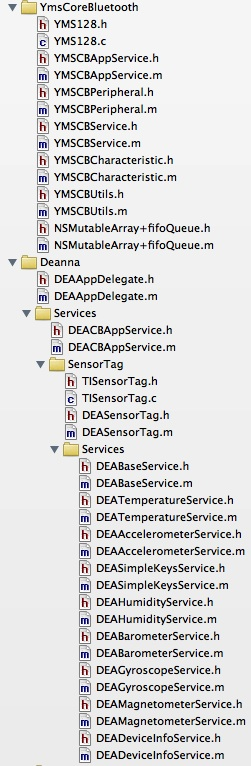
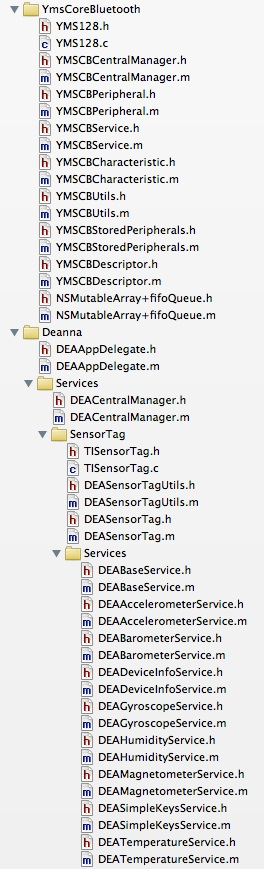
Updated tutorial to 0.93 API

diff --git a/appledoc/docs/tutorial/Tutorial.html b/appledoc/docs/tutorial/Tutorial.html
@@ -27,8 +27,6 @@
 				<div id="container">	
 					<p><link rel="stylesheet" type="text/css" href="css/book.css" /></p>
 
-<p><strong>THIS TUTORIAL IS OBSOLETE AS OF API VERSION 0.93. AN UPDATE IS ARRIVING SHORTLY.</strong></p>
-
 <h1>YmsCoreBluetooth <a href="Tutorial.html">Tutorial</a></h1>
 
 <p><strong>YmsCoreBluetooth</strong> is a framework for building Bluetooth LE capability to an iOS app. It extends the CoreBluetooth framework by implementing functionality to manage BLE peripherals, their services, and the characteristics of those services.</p>
@@ -57,42 +55,60 @@
 
 <p>With the above figure, let&rsquo;s walk through building a <em>SensorTag</em> peripheral.</p>
 
-<h2>Subclass YMSCBAppService</h2>
+<h2>Subclass <a href="../../Classes/YMSCBCentralManager.html">YMSCBCentralManager</a> to make <a href="../../Classes/DEACentralManager.html">DEACentralManager</a></h2>
 
-<p>The class DEACBAppService in <code>Deanna/Services/DEACBAppService.[hm]</code> is an application service to manage all known peripherals as defined by you the implementer. In this case we&rsquo;re only concerning ourselves with <em>SensorTag</em> peripherals.
-It is typically implemented as a singleton instance and contains the following three method implementations:</p>
+<p>The class <a href="../../Classes/DEACentralManager.html">DEACentralManager</a> in <code>Deanna/Services/</code>DEACentralManager<code>.[hm]</code> is an application service to manage all known peripherals as defined by you the implementer. In this case we&rsquo;re only concerning ourselves with <em>SensorTag</em> peripherals.
+It is typically implemented as a singleton instance and contains the following method implementations:</p>
 
 <ul>
 <li><code>sharedService</code></li>
 <li><code>startScan</code></li>
 <li><code>handleFoundPeripheral</code></li>
+<li><code>managerPoweredOnHandler</code></li>
 </ul>
 
 
-<p>The <code>sharedService</code> method is a singleton constructor for <code>DEACBAppService</code>. In this implementation, the property <code>[YMSCBAppService knownPeripheralNames]</code> is set using <code>initWithKnownPeripheralNames:queue:</code> to help identify and filter the peripherals you care to communicate with.</p>
+<p>The <code>sharedService</code> method is a singleton constructor for DEACentralManager. In this implementation, the property <a href="../../Classes/YMSCBCentralManager.html#//api/name/knownPeripheralNames">[YMSCBCentralManager knownPeripheralNames]</a> is set using [YMSCBCentralManager initWithKnownPeripheralNames:queue:userStoredPeripherals:] to help identify and filter the peripherals you care to communicate with.</p>
 
-<pre><code>+ (DEACBAppService *)sharedService {
-    if (sharedCBAppService == nil) {
+<pre><code>+ (DEACentralManager *)sharedService {
+    if (sharedCentralManager == nil) {
         NSArray *nameList = @[@"TI BLE Sensor Tag", @"SensorTag"];
-        sharedCBAppService = [[super allocWithZone:NULL] initWithKnownPeripheralNames:nameList
-                                                                                queue:nil];
+        sharedCentralManager = [[super allocWithZone:NULL] initWithKnownPeripheralNames:nameList
+                                                                                queue:nil
+                                                                 useStoredPeripherals:YES];
     }
-    return sharedCBAppService;
+    return sharedCentralManager;
 }
 </code></pre>
 
-<p>The <code>startScan</code> method lets you define how to go about scanning for peripherals. Within its implementation should be a call to <code>scanForPeripheralsWithServices:options:</code> to tell the <code>CBCentralManager</code> instance to start scanning.</p>
+<p>The <code>startScan</code> method lets you define how to go about scanning for peripherals. Within its implementation should be a call to <code>scanForPeripheralsWithServices:options:withBlock:</code> to tell the <code>CBCentralManager</code> property <code>manager</code> to start scanning.</p>
 
 <pre><code>- (void)startScan {
     NSDictionary *options = @{ CBCentralManagerScanOptionAllowDuplicatesKey: @YES };
-    [self scanForPeripheralsWithServices:nil options:options];
+
+    __weak DEACentralManager *this = self;
+    [self scanForPeripheralsWithServices:nil
+                                 options:options
+                               withBlock:^(CBPeripheral *peripheral, NSDictionary *advertisementData, NSNumber *RSSI, NSError *error) {
+                                   if (error) {
+                                       NSLog(@"Something bad happened with scanForPeripheralWithServices:options:withBlock:");
+                                       return;
+                                   }
+
+                                   NSLog(@"DISCOVERED: %@, %@, %@ db", peripheral, peripheral.name, RSSI);
+                                   [this handleFoundPeripheral:peripheral];
+                               }];
+
 }
 </code></pre>
+
+<p>Note that a weak pointer named <code>this</code> is set to <code>self</code>. This is done to handle retain issues with referencing self within an ObjectiveC block.</p>
+
+<p>The callback block is executed upon a response from a BLE peripheral that is advertising. A discovered BLE peripheral will pass a pointer to itself (<code>peripheral</code>), advertisement data (<code>advertisementData</code>), its RSSI value (<code>RSSI</code>), and in the event of a failure, an error object (<code>error</code>) to the callback block. In this implementation, the execution of the callback block will call <code>handleFoundPeripheral:</code>. Note that the statements in <code>handleFoundPeripheral:</code> could just as easily be located within the block statement.</p>
 
 <p>The <code>handleFoundPeripheral:</code> method defines what to do once you&rsquo;ve found a peripheral via scanning. In the case of a <em>SensorTag</em> it is to instantiate <a href="../../Classes/DEASensorTag.html"><code>DEASensorTag</code></a>, a subclass of <a href="../../Classes/YMSCBPeripheral.html"><code>YMSCBPeripheral</code></a>.</p>
 
 <pre><code>- (void)handleFoundPeripheral:(CBPeripheral *)peripheral {
-
     YMSCBPeripheral *yp = [self findPeripheral:peripheral];
 
     if (yp == nil) {
@@ -106,9 +122,7 @@ It is typically implemented as a singleton instance and contains the following t
                 [self.ymsPeripherals addObject:sensorTag];
                 isUnknownPeripheral = NO;
                 break;
-
             }
-
         }
 
         if (isUnknownPeripheral) {
@@ -117,43 +131,67 @@ It is typically implemented as a singleton instance and contains the following t
             [self.ymsPeripherals addObject:yp];
         }
     }
-
 }
 </code></pre>
 
-<p>When a BLE peripheral is discovered it can be connected to. The method <code>[YMSCBAppService connectPeripheral:]</code> will request this connection and the response is handled by <code>[YMSCBAppService centralManager:didConnectPeripheral:]</code>. In this last method, the call to discover the BLE services and subquently each service&rsquo;s characteristics is called.</p>
+<p>An alternate implementation of <code>startScan</code> without using a block callback is to use <code>scanForPeripheralsWithServices:options:</code>. In this case, you then <em>must</em> implement <code>handleFoundPeripheral:</code> to handle the discovered peripheral.</p>
 
-<h2>Subclass <a href="../../Classes/YMSCBPeripheral.html">YMSCBPeripheral</a></h2>
-
-<p>The class implementation of <a href="../../Classes/DEASensorTag.html"><code>DEASensorTag</code></a> in <code>Deanna/Services/SensorTag/</code>DEASensorTag<code>.[hm]</code> is where the top-level behavior of the <em>SensorTag</em> peripheral is captured. Two methods are implemented:</p>
+<p>A common task is to define program behavior upon a change in the state of <code>CBCentralManager</code>. This is accomplished by implementing the methods which are named after their respective states:</p>
 
 <ul>
-<li><code>initWithPeripheral:baseHi:baseLo:updateRSSI:</code> &ndash; the constructor for <a href="../../Classes/DEASensorTag.html">DEASensorTag</a></li>
-<li><code>peripheral:didDiscoverCharacteristicsForService:error:</code> &ndash; CBPeriperhalDelegate method to handle what to do when BLE characteristics of the BLE services are discovered for a <em>SensorTag</em>.</li>
+<li><code>managerPoweredOnHandler</code></li>
+<li><code>managerUnknownHandler</code></li>
+<li><code>managerPoweredOffHandler</code></li>
+<li><code>managerResettingHandler</code></li>
+<li><code>managerUnauthorizedHandler</code></li>
+<li><code>managerUnsupportedHandler</code></li>
 </ul>
 
 
-<h2>Constructing <a href="../../Classes/DEASensorTag.html">DEASensorTag</a></h2>
+<p>For our purpose, we are interested on retrivieving previously discovered peripherals whose UUIDs have been persisted from a previous run of the app upon <code>CBCentralManager</code> being powered on:</p>
 
-<p>The class constructor for <a href="../../Classes/DEASensorTag.html"><code>DEASensorTag</code></a> is responsible for instantiating subclasses of <a href="../../Classes/YMSCBService.html"><code>YMSCBService</code></a> to capture the behavior of the different BLE services offered by the <em>SensorTag</em>. The source for this constructor, <code>initWithPeripheral:baseHi:baseLo:updateRSSI:</code> is shown below:</p>
+<pre><code>- (void)managerPoweredOnHandler {
+    if (self.useStoredPeripherals) {
+        NSArray *peripheralUUIDs = [YMSCBStoredPeripherals genPeripheralUUIDs];
+        __weak DEACentralManager *this = self;
+        [self retrievePeripherals:peripheralUUIDs
+                        withBlock:^(CBPeripheral *peripheral) {
+                            [this handleFoundPeripheral:peripheral];
+                        }];
+    }
+}
+</code></pre>
+
+<h2>Subclass <a href="../../Classes/YMSCBPeripheral.html">YMSCBPeripheral</a> to make <a href="../../Classes/DEASensorTag.html">DEASensorTag</a></h2>
+
+<p>The class implementation of <code>DEASensorTag</code> in <code>Deanna/Services/SensorTag/DEASensorTag.[hm]</code> is where the top-level behavior of the <em>SensorTag</em> peripheral is captured. Two methods are implemented:</p>
+
+<ul>
+<li><code>initWithPeripheral:central:baseHi:baseLo:updateRSSI:</code> &ndash; the constructor for <a href="../../Classes/DEASensorTag.html">DEASensorTag</a></li>
+<li><code>connect</code> &ndash; the method to initiate a connection request for the peripheral.</li>
+</ul>
+
+
+<p>The class constructor for <code>DEASensorTag</code> is responsible for instantiating subclasses of <code>YMSCBService</code> to capture the behavior of the different BLE services offered by the <em>SensorTag</em>. The source for this constructor, <code>initWithPeripheral:central:baseHi:baseLo:updateRSSI:</code> is shown below:</p>
 
 <pre><code>- (id)initWithPeripheral:(CBPeripheral *)peripheral
+                 central:(YMSCBCentralManager *)owner
                   baseHi:(int64_t)hi
                   baseLo:(int64_t)lo
               updateRSSI:(BOOL)update {
 
-    self = [super initWithPeripheral:peripheral baseHi:hi baseLo:lo updateRSSI:update];
+
+    self = [super initWithPeripheral:peripheral central:owner baseHi:hi baseLo:lo updateRSSI:update];
 
     if (self) {
-
-        DEATemperatureService *ts = [[DEATemperatureService alloc] initWithName:@"temperature" baseHi:hi baseLo:lo];
-        DEAAccelerometerService *as = [[DEAAccelerometerService alloc] initWithName:@"accelerometer" baseHi:hi baseLo:lo];
-        DEASimpleKeysService *sks = [[DEASimpleKeysService alloc] initWithName:@"simplekeys" baseHi:hi baseLo:lo];
-        DEAHumidityService *hs = [[DEAHumidityService alloc] initWithName:@"humidity" baseHi:hi baseLo:lo];
-        DEABarometerService *bs = [[DEABarometerService alloc] initWithName:@"barometer" baseHi:hi baseLo:lo];
-        DEAGyroscopeService *gs = [[DEAGyroscopeService alloc] initWithName:@"gyroscope" baseHi:hi baseLo:lo];
-        DEAMagnetometerService *ms = [[DEAMagnetometerService alloc] initWithName:@"magnetometer" baseHi:hi baseLo:lo];
-        DEADeviceInfoService *ds = [[DEADeviceInfoService alloc] initWithName:@"devinfo" baseHi:hi baseLo:lo];
+        DEATemperatureService *ts = [[DEATemperatureService alloc] initWithName:@"temperature" parent:self baseHi:hi  baseLo:lo];
+        DEAAccelerometerService *as = [[DEAAccelerometerService alloc] initWithName:@"accelerometer" parent:self    baseHi:hi baseLo:lo];
+        DEASimpleKeysService *sks = [[DEASimpleKeysService alloc] initWithName:@"simplekeys" parent:self baseHi:hi     baseLo:lo];
+        DEAHumidityService *hs = [[DEAHumidityService alloc] initWithName:@"humidity" parent:self baseHi:hi  baseLo:lo];
+        DEABarometerService *bs = [[DEABarometerService alloc] initWithName:@"barometer" parent:self baseHi:hi  baseLo:lo];
+        DEAGyroscopeService *gs = [[DEAGyroscopeService alloc] initWithName:@"gyroscope" parent:self baseHi:hi  baseLo:lo];
+        DEAMagnetometerService *ms = [[DEAMagnetometerService alloc] initWithName:@"magnetometer" parent:self    baseHi:hi baseLo:lo];
+        DEADeviceInfoService *ds = [[DEADeviceInfoService alloc] initWithName:@"devinfo" parent:self baseHi:hi     baseLo:lo];
 
         self.serviceDict = @{@"temperature": ts,
                              @"accelerometer": as,
@@ -163,8 +201,6 @@ It is typically implemented as a singleton instance and contains the following t
                              @"gyroscope": gs,
                              @"barometer": bs,
                              @"devinfo": ds};
-
-        [sks turnOn];
     }
     return self;
 
@@ -181,50 +217,94 @@ It is typically implemented as a singleton instance and contains the following t
 <li>Barometer Service &ndash; <a href="../../Classes/DEABarometerService.html">DEABarometerService</a></li>
 <li>Gyroscope Service &ndash; <a href="../../Classes/DEAGyroscopeService.html">DEAGyroscopeService</a></li>
 <li>Magnetometer Service &ndash; <a href="../../Classes/DEAMagnetometerService.html">DEAMagnetometerService</a></li>
-<li>Device Information Service &ndash; DEADeviceInfoService</li>
+<li>Device Information Service &ndash; <a href="../../Classes/DEADeviceInfoService.html">DEADeviceInfoService</a></li>
+<li></li>
 </ul>
 
 
-<p>The instances of these classes are stored in <a href="../../Classes/YMSCBPeripheral.html#//api/name/serviceDict">[YMSCBPeripheral serviceDict]</a>.</p>
+<p>The instances of these classes are stored in the dictionary <a href="../../Classes/YMSCBPeripheral.html#//api/name/serviceDict">[YMSCBPeripheral serviceDict]</a> where their respective keys are human-readable strings.</p>
 
-<p>If you wish to perform specific actions upon the discovery of a BLE characteristic, this can be implemented in <code>peripheral:didDiscoverCharacteristicsForService:error</code> as shown below:</p>
+<p>The <code>connect</code> method implements all the desired behavior involved with connecting to a BLE peripheral. It is here where the utility of ObjectiveC blocks to handle response behavior becomes evident.</p>
 
-<pre><code>- (void)peripheral:(CBPeripheral *)peripheral didDiscoverCharacteristicsForService:(CBService *)service error:(NSError     *)error {
+<p>In the following implementation the following tasks are undertaken in sequential order:</p>
 
-    [super peripheral:peripheral didDiscoverCharacteristicsForService:service error:&amp;*error];
+<ul>
+<li>peripheral connection (<code>connectionWithOptions:withBlock:</code>)</li>
+<li>discover services for that peripheral (<code>discoverServices:withBlock:</code>)</li>
+<li>discover charcteristics for each service (<code>discoverChararcteristics:withBlock:</code>)</li>
+<li>discover descriptors for each characteristic (<code>discoverDescriptors:withBlock:</code>)</li>
+</ul>
 
-    DEABaseService *btService = (DEABaseService *)[self findService:service];
 
-    if ([btService.name isEqualToString:@"simplekeys"]) {
-        [btService setNotifyValue:YES forCharacteristicName:@"data"];
+<p>Note that the tasks listed above are accomplished via a nested chain of callbacks.</p>
 
-    } else if ([btService.name isEqualToString:@"devinfo"]) {
-        DEADeviceInfoService *ds =  (DEADeviceInfoService *)btService;
-        [ds readDeviceInfo];
+<pre><code>- (void)connect {
+    // Watchdog aware method
+    [self resetWatchdog];
 
-    } else {
-        [btService requestConfig];
-    }
+    [self connectWithOptions:nil withBlock:^(YMSCBPeripheral *yp, NSError *error) {
+        if (error) {
+            return;
+        }
 
+        [yp discoverServices:[yp services] withBlock:^(NSArray *yservices, NSError *error) {
+            if (error) {
+                return;
+            }
+
+            for (YMSCBService *service in yservices) {
+                if ([service.name isEqualToString:@"simplekeys"]) {
+                    __weak DEASimpleKeysService *thisService = (DEASimpleKeysService *)service;
+                    [service discoverCharacteristics:[service characteristics] withBlock:^(NSDictionary *chDict,    NSError *error) {
+                        [thisService turnOn];
+                    }];
+
+                } else if ([service.name isEqualToString:@"devinfo"]) {
+                    __weak DEADeviceInfoService *thisService = (DEADeviceInfoService *)service;
+                    [service discoverCharacteristics:[service characteristics] withBlock:^(NSDictionary *chDict,    NSError *error) {
+                        [thisService readDeviceInfo];
+                    }];
+
+                } else {
+                    __weak DEABaseService *thisService = (DEABaseService *)service;
+                    [service discoverCharacteristics:[service characteristics] withBlock:^(NSDictionary *chDict,    NSError *error) {
+                        for (NSString *key in chDict) {
+                            YMSCBCharacteristic *ct = chDict[key];
+                            //NSLog(@"%@ %@ %@", ct, ct.cbCharacteristic, ct.uuid);
+
+                            [ct discoverDescriptorsWithBlock:^(NSArray *ydescriptors, NSError *error) {
+                                if (error) {
+                                    return;
+                                }
+                                for (YMSCBDescriptor *yd in ydescriptors) {
+                                    NSLog(@"Descriptor: %@ %@ %@", thisService.name, yd.UUID, yd.cbDescriptor);
+                                }
+                            }];
+                        }
+                    }];
+                }
+            }
+        }];
+    }];
 }
 </code></pre>
 
 <h2>Define BLE services of this peripheral.</h2>
 
-<p>The BLE services of a peripheral are described by using subclasses of <code>YMSCBService</code>. For the <em>SensorTag</em>, all but the device information service (<a href="../../Classes/DEADeviceInfoService.html">DEADeviceInfoService</a>) are subclassed from <code>DEABaseService</code> which has support for common configuration and turn on/off behavior.</p>
+<p>The BLE services of a peripheral are described by using subclasses of <a href="../../Classes/YMSCBService.html">YMSCBService</a>. For the <em>SensorTag</em>, all but the device information service (<a href="../../Classes/DEADeviceInfoService.html">DEADeviceInfoService</a>) are subclassed from <a href="../../Classes/DEABaseService.html">DEABaseService</a> which has support for common configuration and turn on/off behavior.</p>
 
 <p>This subclass is responsible for implementing:</p>
 
 <ul>
 <li>Properties that are specific to the bluetooth service.</li>
-<li>The class constructor <code>[YMSCBService initWithName:baseHi:baseLo:]</code>, defining the BLE characteristics with subclasses of <code>YMSCBCharacteristic</code>.</li>
+<li>The class constructor <a href="../../Classes/YMSCBService.html#//api/name/initWithName:parent:baseHi:baseLo:">[YMSCBService initWithName:parent:baseHi:baseLo:]</a>, defining the BLE characteristics with subclasses of YMSCBCharacteristic via <a href="../../Classes/YMSCBService.html#//api/name/addCharacteristic:withOffset:">[YMSCBService addCharacteristic:withOffset:]</a>.</li>
 <li><code>notifyCharacteristicHandler</code> to handle responses for characteristics whose notifications have been turned on.</li>
 <li>Any processing logic germane to the BLE service (e.g. temperature conversion, data correction/smoothing, etc.).</li>
 <li>Specific read/write transaction sequences germane to the BLE service.</li>
 </ul>
 
 
-<p>Shown below is the implementation for <a href="../../Classes/DEAAccelerometerService.html">DEAAccelerometerService</a>.</p>
+<p>Shown below is the implementation for <code>DEAAccelerometerService</code>.</p>
 
 <pre><code>float calcAccel(int16_t rawV) {
     float v;
@@ -236,13 +316,13 @@ It is typically implemented as a singleton instance and contains the following t
 
 
 - (id)initWithName:(NSString *)oName
+            parent:(YMSCBPeripheral *)pObj
             baseHi:(int64_t)hi
             baseLo:(int64_t)lo {
     self = [super initWithName:oName
+                        parent:pObj
                         baseHi:hi
                         baseLo:lo];
-
-
     if (self) {
         [self addCharacteristic:@"service" withOffset:kSensorTag_ACCELEROMETER_SERVICE];
         [self addCharacteristic:@"data" withOffset:kSensorTag_ACCELEROMETER_DATA];
@@ -251,7 +331,6 @@ It is typically implemented as a singleton instance and contains the following t
     }
     return self;
 }
-
 
 - (void)notifyCharacteristicHandler:(YMSCBCharacteristic *)yc error:(NSError *)error {
 
@@ -269,7 +348,6 @@ It is typically implemented as a singleton instance and contains the following t
         int16_t yy = val[1];
         int16_t zz = val[2];
 
-
         self.x = [NSNumber numberWithFloat:calcAccel(xx)];
         self.y = [NSNumber numberWithFloat:calcAccel(yy)];
         self.z = [NSNumber numberWithFloat:calcAccel(zz)];
@@ -280,7 +358,7 @@ It is typically implemented as a singleton instance and contains the following t
 @end
 </code></pre>
 
-<p>The class constructor <code>initWithName:baseHi:baseLo:</code> defines four BLE characteristics using <code>addCharacteristic:withOffset:</code> which we can reference with the following four strings: (&ldquo;service&rdquo;, &ldquo;data&rdquo;, &ldquo;config&rdquo;, &ldquo;period&rdquo;).</p>
+<p>The class constructor <code>initWithName:parent:baseHi:baseLo:</code> defines four BLE characteristics using <a href="../../Classes/YMSCBService.html#//api/name/addCharacteristic:withOffset:">[YMSCBService addCharacteristic:withOffset:]</a> which we can reference with the following four strings: (&ldquo;service&rdquo;, &ldquo;data&rdquo;, &ldquo;config&rdquo;, &ldquo;period&rdquo;).</p>
 
 <p>When the service is turned on using the method <a href="../../Classes/DEABaseService.html#//api/name/turnOn">[DEABaseService turnOn]</a>, notifications for the &ldquo;data&rdquo; characteristic are turned on. Handling notification events sent from the <em>SensorTag</em> are handled by <code>notifyCharacteristicHandler</code>. The acceleration measurements are stored as <code>NSNumber</code> properties <code>x</code>, <code>y</code>, <code>z</code>. These properties can then be Key-Value Observed (KVO) by the application, typically to be displayed in user interface.</p>
 
